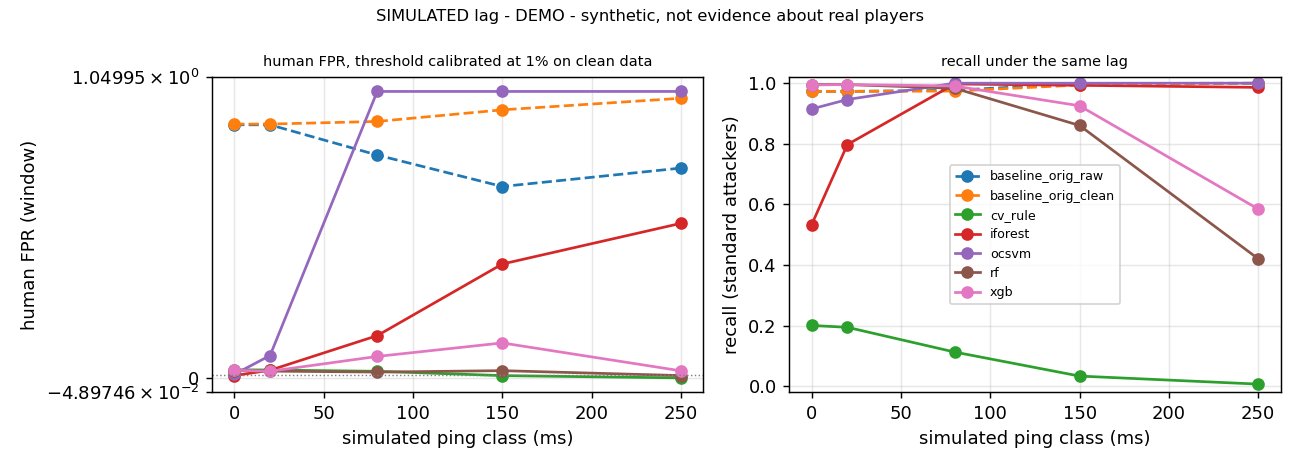
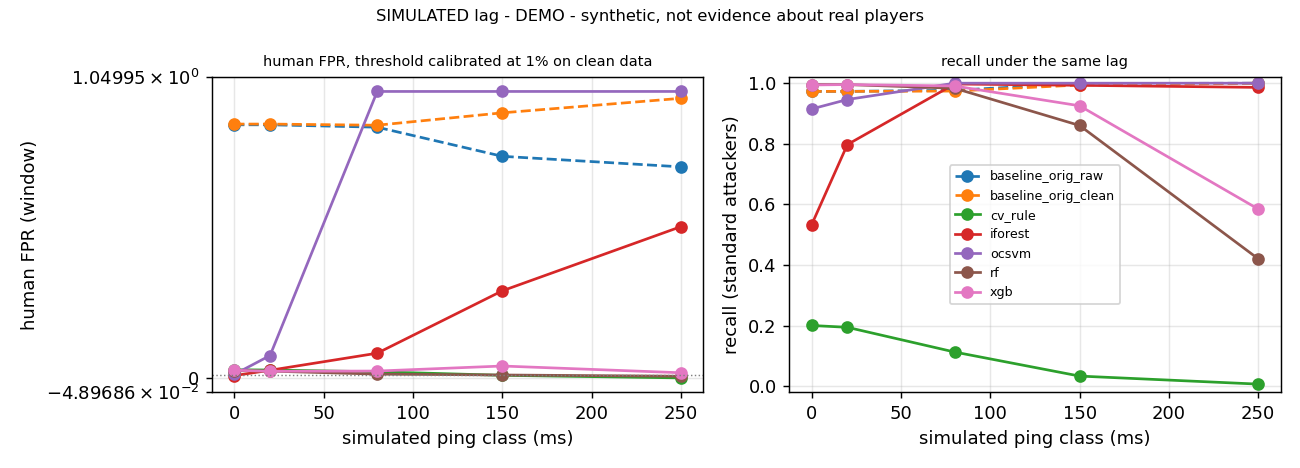
Resultados regenerados con la nueva regla de minado y documentacion actualizada
La tolerancia a un tick lento reduce los falsos positivos bajo lag simulado: en la sesion real
pasan de 8.7/16.4/13.95 a 1.6/6.65/9.15 a 80/150/250 ms, y el FPR de XGBoost en datos sinteticos
baja de 7.6%/12.3% a 2.5%/4.3% a 80/150 ms. El resto de fases no cambia.

diff --git a/docs/ml_report.md b/docs/ml_report.md
@@ -114,8 +114,9 @@ The only real session is P01: 65 s, legacy label `human` → `human_unspecified`
    intervals between `interact_*` events, which mixes these.
 2. **Held button = one swing per tick.** While the button is held the client sends a swing every
    tick (~50 ms). The real data show the `break` arriving *before* those swings when blocks break
-   instantly. A held-button state machine handles this: a dig marker opens a run that lasts while
-   swings stay ≤ 65 ms apart. Here 56 of 77 accepted swings are held.
+   instantly. A held-button state machine handles this: a dig marker opens a run in which swings
+   ≤ 65 ms apart are held. One late swing (≤ 85 ms, a slow server tick) does not end the run, but a
+   skipped tick (~100 ms) does. Here 56 of 77 accepted swings are held.
 3. **Quantization.** Intervals cluster on multiples of 50 ms (Figure 1).
 
    | intervals | n | within ±5 ms of the grid | KS vs uniform residuals |
@@ -305,19 +306,21 @@ Realised human FPR at the 1% threshold:
 
 | ping (ms) | 0 | 20 | 80 | 150 | 250 |
 |---|---|---|---|---|---|
-| XGBoost | 0.028 | 0.024 | 0.076 | 0.123 | 0.026 |
-| Random Forest | 0.026 | 0.025 | 0.021 | 0.026 | 0.009 |
-| Isolation Forest | 0.009 | 0.028 | 0.149 | 0.398 | 0.540 |
+| XGBoost | 0.028 | 0.024 | 0.025 | 0.043 | 0.019 |
+| Random Forest | 0.026 | 0.025 | 0.014 | 0.011 | 0.007 |
+| Isolation Forest | 0.009 | 0.028 | 0.087 | 0.305 | 0.529 |
 | One-Class SVM | 0.013 | 0.079 | 1.000 | 1.000 | 1.000 |
 
 - Even at ping 0 the tree models' realised FPR on this *new* population (2.6–2.8%) exceeds the
   1% calibration target: thresholds transfer imperfectly across populations.
 - The novelty detectors are fragile under lag; tree models are less affected.
 - Random Forest recall on attackers falls to 0.42 at 250 ms.
-- **Real timestamps + simulated lag:** applying the same lag to P01's events breaks the
-  held-button rule. Cleaned original-rule violations rise from 0 to 8.7 (ping 80) and 16.4
-  (ping 150), averaged over 20 draws, because held swings get spread beyond 65 ms. The cleaning
-  rule's robustness therefore has to be measured with real lag (protocol in `docs/real_lag_test_protocol.md`).
+- **Real timestamps + simulated lag:** jitter spreads P01's held swings beyond the held tolerance,
+  so some mining swings are evaluated as clicks. Averaged over 20 draws, cleaned original-rule
+  violations go from 0 to 1.6 (ping 80), 6.65 (ping 150) and 9.15 (ping 250). With the first
+  version of the rule, where any gap above 65 ms ended the run, they were 8.7, 16.4 and 13.95.
+  The late-tick tolerance was introduced after the manual server test described in Section 6.
+  Real lag measurements are still needed (protocol in `docs/real_lag_test_protocol.md`).
 
 ### 5.4 Explainability (DEMO model)
 
@@ -360,7 +363,7 @@ The extension follows the thesis's operational constraints.
     blocking a tick. Resulting flags return to the main thread and feed `flagPlayer`.
   - The selected model is XGBoost: best recall at 1% FPR, and within 1 point of RF while being
     14× smaller (183 KB).
-  - ONNX inference costs ~25 µs per window (median, Python onnxruntime on the development
+  - ONNX inference costs ~25–45 µs per window (median over two runs, Python onnxruntime on the development
     machine; not measured inside the server).
 - **Fail-safe switch.**
   - `deteccion.autoclicker.engine: threshold | shadow | ml`, default `threshold`.
@@ -377,19 +380,34 @@ The extension follows the thesis's operational constraints.
 - **Verification.**
   - 11 JUnit tests: cleaner cases, Java↔Python feature and ONNX parity (max |Δ| 3e-7 in
     Python↔ONNX), the ML-thread hand-off, and the RFC 4231 HMAC test vector.
-  - The jar builds with `gradlew build`. A manual smoke test on a local Paper 1.18.2 server
+  - The jar builds with `gradlew build`. A manual test on a local Paper 1.18.2 server
     confirmed that ONNX Runtime is fetched by the library loader, the model loads in `shadow`
     mode, the HMAC key is generated, and audit and telemetry lines carry `p-…` pseudonyms.
+- **Fixes motivated by the manual server test.** In ~35 s of legitimate play the player was
+  kicked twice:
+  - **AutoClicker while mining.** One held swing arrived 67 ms after the previous one (a slow
+    tick), the held rule treated it as a release, and the rest of the run was evaluated as
+    clicking. Fixed with the 85 ms release gap (Python and Java, with the observed sequence as a
+    unit test).
+  - **FastBreak.** Breaks every ~300 ms in creative mode were flagged by the fixed 450 ms rule.
+    FastBreak now compares the time spent digging *that* block with the time expected from
+    `Block#getBreakSpeed(Player)` (block hardness, tool, enchantments, effects, water, on-ground).
+    It flags only breaks faster than 70% of that time, the same margin the vanilla server
+    accepts, and skips creative and spectator players.
+  - **Fly.** A normal fall was flagged because the rule used `|dy| > 1` while airborne. It now
+    flags only anomalous *ascent* (`dy > 1`, a normal jump rises 0.42 blocks/tick).
+  - **Movement exemptions.** Speed, Fly and No-Clip skip creative/spectator players and players
+    who are allowed to fly, gliding with an elytra, riptiding or riding a vehicle.
+
+  The Python baselines in Section 3.3 still reproduce the *original* thesis rules, so that the
+  comparison with the original detector stays visible.
 
 ## 7. Limitations and ethics
 
 **Limitations.**
-- **Known issue from the manual server test.** On localhost, one held-button swing arrived
-  67 ms after the previous one (a slow tick). The held rule treats any gap above 65 ms as a
-  release, so the rest of that mining run was evaluated as clicking and raised AutoClicker
-  violations. Separating the held tolerance (≤ 65 ms) from the release gap (e.g. > 150 ms) is
-  the planned fix. In the same test the original Fly rule flagged a normal fall, and the
-  original FastBreak rule flagged creative-mode breaking.
+- **Held-button rule under lag.** The late-tick tolerance (Section 6) reduces, but does not
+  remove, false AutoClicker flags under jitter (Section 5.3). The 85 ms release gap is a
+  compromise: it absorbs one slow tick without letting a 50/100 ms clicker pass as mining.
 - **Evidence.** There is no real-data detection result: one participant, one 65 s session,
   probably in creative mode, and zero scoreable windows. Every detection number is DEMO and
   depends on assumed human parameters. The direction of some conclusions (e.g. the original

diff --git a/ml/README.md b/ml/README.md
@@ -80,7 +80,8 @@ Labels: `human_combat`, `human_mining`, `human_explore`, `auto_fixed`, `auto_jit
 - **Held-button state machine:** `interact_block` or a break opens a dig. While consecutive
   swings stay ≤ 65 ms apart they are *held* (the client sends one swing per tick while the
   button is held). In the real data the break arrives *before* the held swings when blocks
-  break instantly.
+  break instantly. A single late swing (≤ 85 ms, one slow server tick) does not end the dig;
+  a skipped tick (~100 ms) does, so a clicker alternating 50/100 ms is never treated as mining.
 - **Moves:** trimmed 5 s after the **first move** (moves start ~12 s after `/record start`).
 
 **Windows and features.**
@@ -145,10 +146,10 @@ Labels: `human_combat`, `human_mining`, `human_explore`, `auto_fixed`, `auto_jit
 - **Timing is quantized to the 50 ms tick grid.** 73% of real *active* click intervals lie
   within ±5 ms of a 50 ms multiple, against 20% without quantization (n = 15, KS p = 0.014).
   See ![quantization](results/figures/real_tick_quantization.png).
-- **Simulated lag on the real timestamps** (`phase_f_results.md`): jitter of ≥ 8 ms breaks the
-  held-button rule. Cleaned-rule violations rise from 0 to 8.7 (ping 80) and 16.4 (ping 150) on
-  average over 20 draws. This is a weakness of the cleaning rule that real lag tests must
-  quantify.
+- **Simulated lag on the real timestamps** (`phase_f_results.md`): jitter spreads held swings
+  beyond the held tolerance. With the late-tick rule, cleaned-rule violations go from 0 to 1.6
+  (ping 80), 6.65 (ping 150) and 9.15 (ping 250) on average over 20 draws; with a strict 65 ms
+  release rule they were 8.7, 16.4 and 13.95. Real lag tests must confirm this.
 
 ### DEMO - synthetic, not evidence about real players
 
@@ -188,9 +189,9 @@ Phase E (adversarial; recall at 1% FPR, XGBoost):
 
 See ![adversarial](results/figures/adversarial_recall_vs_level.png).
 
-Phase F (simulated lag, fresh synthetic humans): XGBoost FPR goes 2.8% → 7.6% → 12.3% at ping
-0 / 80 / 150 ms. RF stays ≤ 2.6% but loses recall at 250 ms (0.42). One-Class SVM reaches 100%
-FPR from 80 ms.
+Phase F (simulated lag, fresh synthetic humans): XGBoost FPR is 2.8% / 2.5% / 4.3% / 1.9% at
+ping 0 / 80 / 150 / 250 ms. RF stays ≤ 2.6% but loses recall at 250 ms (0.42). Isolation Forest
+rises to 30% at 150 ms and One-Class SVM reaches 100% FPR from 80 ms.
 
 Phase G: SHAP ranks histogram entropy, mean interval and lag-1 autocorrelation first.
 Permutation importance is ~0 because the features are redundant and PR-AUC is saturated.
@@ -201,10 +202,14 @@ human.
 - The XGBoost model is selected by the documented rule: best recall at 1% FPR, and if within 1
   point, the smaller model. 183 KB vs 2.5 MB for RF.
 - It ships as `models/click_model.onnx` with Python/ONNX parity of 3e-7.
-- Inference is ~25 µs per window (Python onnxruntime on this machine; not measured inside the
+- Inference takes ~25–45 µs per window (median over two runs, Python onnxruntime on this machine; not measured inside the
   server).
 - It runs on a background thread, and the default `engine: threshold` keeps it off. Use
   `shadow` to log scores without VL.
+- Detector fixes after a manual server test: held-button late-tick tolerance (AutoClicker),
+  FastBreak based on the expected break time of each block (`getBreakSpeed`, vanilla 0.7
+  margin, creative skipped), Fly limited to anomalous ascent, and movement checks skipped for
+  creative/spectator, flight, elytra, riptide and vehicles. Details in `docs/ml_report.md`, §6.
 
 ## Limitations
 
@@ -230,7 +235,8 @@ See also `docs/ml_report.md` (paper-style report) and `docs/real_lag_test_protoc
 - **Raw data location** is configurable (`ML_RAW_DIR` / `-RawDir`), so the pipeline can run
   against data stored outside the repository.
 - **Held swings arrive every ~50 ms** in the real data (one swing per client tick), so the held
-  rule uses a 65 ms tolerance.
+  rule uses a 65 ms tolerance, and an 85 ms release gap so that one slow tick (67 ms was observed
+  in a server test) does not end a mining run.
 - **Feature definitions** use biased moments and explicit percentiles so that the Java port
   matches them exactly.
 - **`held_frac`, ping and TPS are not model inputs** (see Method).

diff --git a/ml/results/phase_f_results.md b/ml/results/phase_f_results.md
@@ -6,13 +6,13 @@ Ping class -> (extra per-packet jitter sd, lag spikes per second) is an assumpti
 
 | model | fpr@ping0 | fpr@ping20 | fpr@ping80 | fpr@ping150 | fpr@ping250 |
 |---|---|---|---|---|---|
-| baseline_orig_clean | 0.8863 | 0.8863 | 0.8954 | 0.9359 | 0.9762 |
-| baseline_orig_raw | 0.8837 | 0.8837 | 0.7782 | 0.6685 | 0.7327 |
-| cv_rule | 0.0294 | 0.0285 | 0.0240 | 0.0090 | 0.0010 |
-| iforest | 0.0091 | 0.0277 | 0.1485 | 0.3981 | 0.5400 |
+| baseline_orig_clean | 0.8863 | 0.8863 | 0.8823 | 0.9255 | 0.9761 |
+| baseline_orig_raw | 0.8837 | 0.8837 | 0.8754 | 0.7739 | 0.7371 |
+| cv_rule | 0.0294 | 0.0285 | 0.0223 | 0.0101 | 0.0010 |
+| iforest | 0.0091 | 0.0277 | 0.0872 | 0.3046 | 0.5285 |
 | ocsvm | 0.0134 | 0.0791 | 1.0000 | 1.0000 | 1.0000 |
-| rf | 0.0264 | 0.0246 | 0.0214 | 0.0263 | 0.0091 |
-| xgb | 0.0277 | 0.0242 | 0.0760 | 0.1230 | 0.0257 |
+| rf | 0.0264 | 0.0246 | 0.0142 | 0.0112 | 0.0069 |
+| xgb | 0.0277 | 0.0242 | 0.0249 | 0.0425 | 0.0190 |
 
 Recall on standard attackers under the same lag (1% threshold):
 
@@ -34,7 +34,7 @@ Every flag is a false positive (the session is human). One short session: anecdo
 | ping_ms | repeats | naive_java_flags_mean | naive_java_n | cleaned_active_flags_mean | cleaned_active_n | held_swings_mean |
 |---|---|---|---|---|---|---|
 | 0.00 | 1.00 | 1.00 | 33.00 | 0.00 | 20.00 | 56.00 |
-| 20.00 | 20.00 | 3.55 | 33.00 | 0.20 | 20.20 | 55.80 |
-| 80.00 | 20.00 | 3.25 | 33.00 | 8.70 | 32.90 | 42.85 |
-| 150.00 | 20.00 | 3.50 | 33.00 | 16.40 | 48.25 | 24.50 |
-| 250.00 | 20.00 | 3.25 | 33.00 | 13.95 | 50.10 | 14.55 |
+| 20.00 | 20.00 | 3.55 | 33.00 | 0.05 | 20.05 | 55.95 |
+| 80.00 | 20.00 | 3.25 | 33.00 | 1.60 | 25.80 | 49.95 |
+| 150.00 | 20.00 | 3.50 | 33.00 | 6.65 | 38.50 | 34.25 |
+| 250.00 | 20.00 | 3.25 | 33.00 | 9.15 | 45.30 | 19.35 |

diff --git a/docs/real_lag_test_protocol.md b/docs/real_lag_test_protocol.md
@@ -7,9 +7,10 @@ measurements taken on a real client–server setup.
 
 ## Hypotheses from the simulation
 
-* Per-packet jitter of 8–25 ms is enough to break the held-button rule. Held swings are expected
-  every 50 ± 15 ms, so with that jitter mining swings leak into the "active click" stream and the
-  original 66 ms rule flags a legitimate player (`ml/results/phase_f_results.md`).
+* Per-packet jitter spreads held swings beyond the held tolerance (≤ 65 ms, with one late swing
+  up to 85 ms tolerated), so some mining swings leak into the "active click" stream and the
+  original 66 ms rule flags a legitimate player. On the real session with simulated lag this gives
+  1.6 / 6.65 / 9.15 false violations at ping 80 / 150 / 250 ms (`ml/results/phase_f_results.md`).
 * Lag spikes release queued packets together, which looks like same-tick double clicks
   (`dup_frac`). Some models' FPR rises with ping (DEMO).
 
